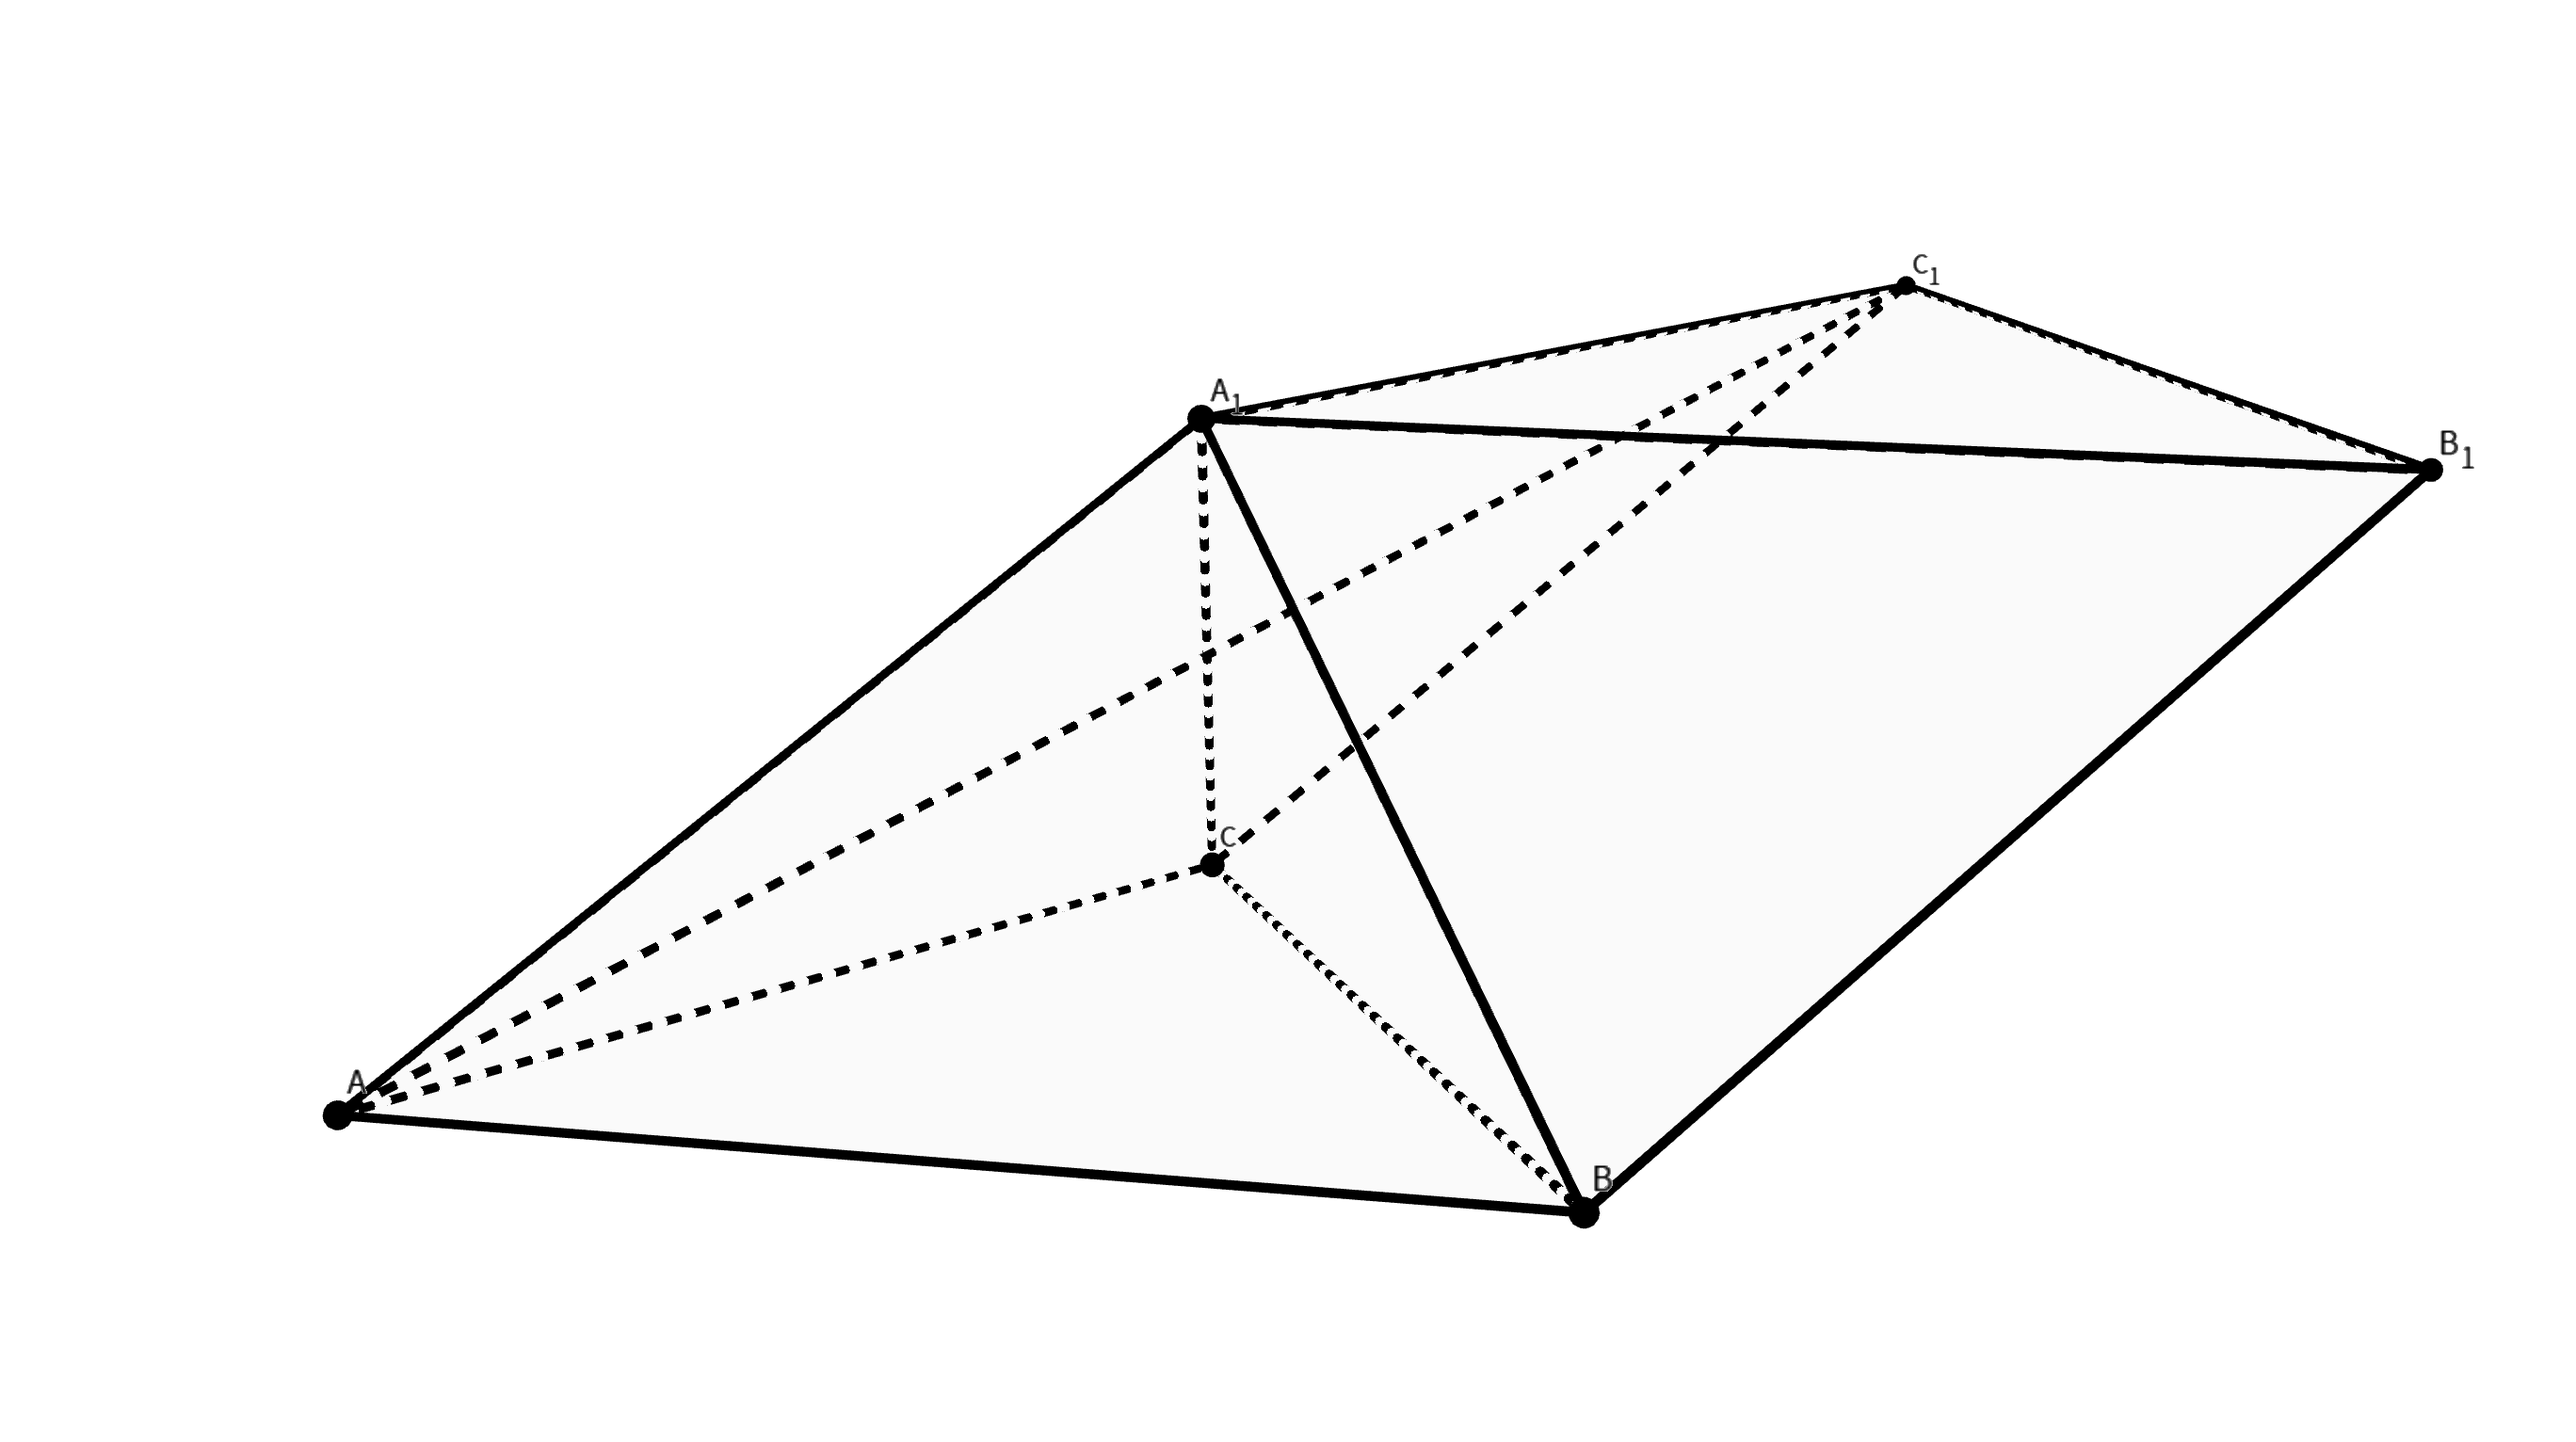
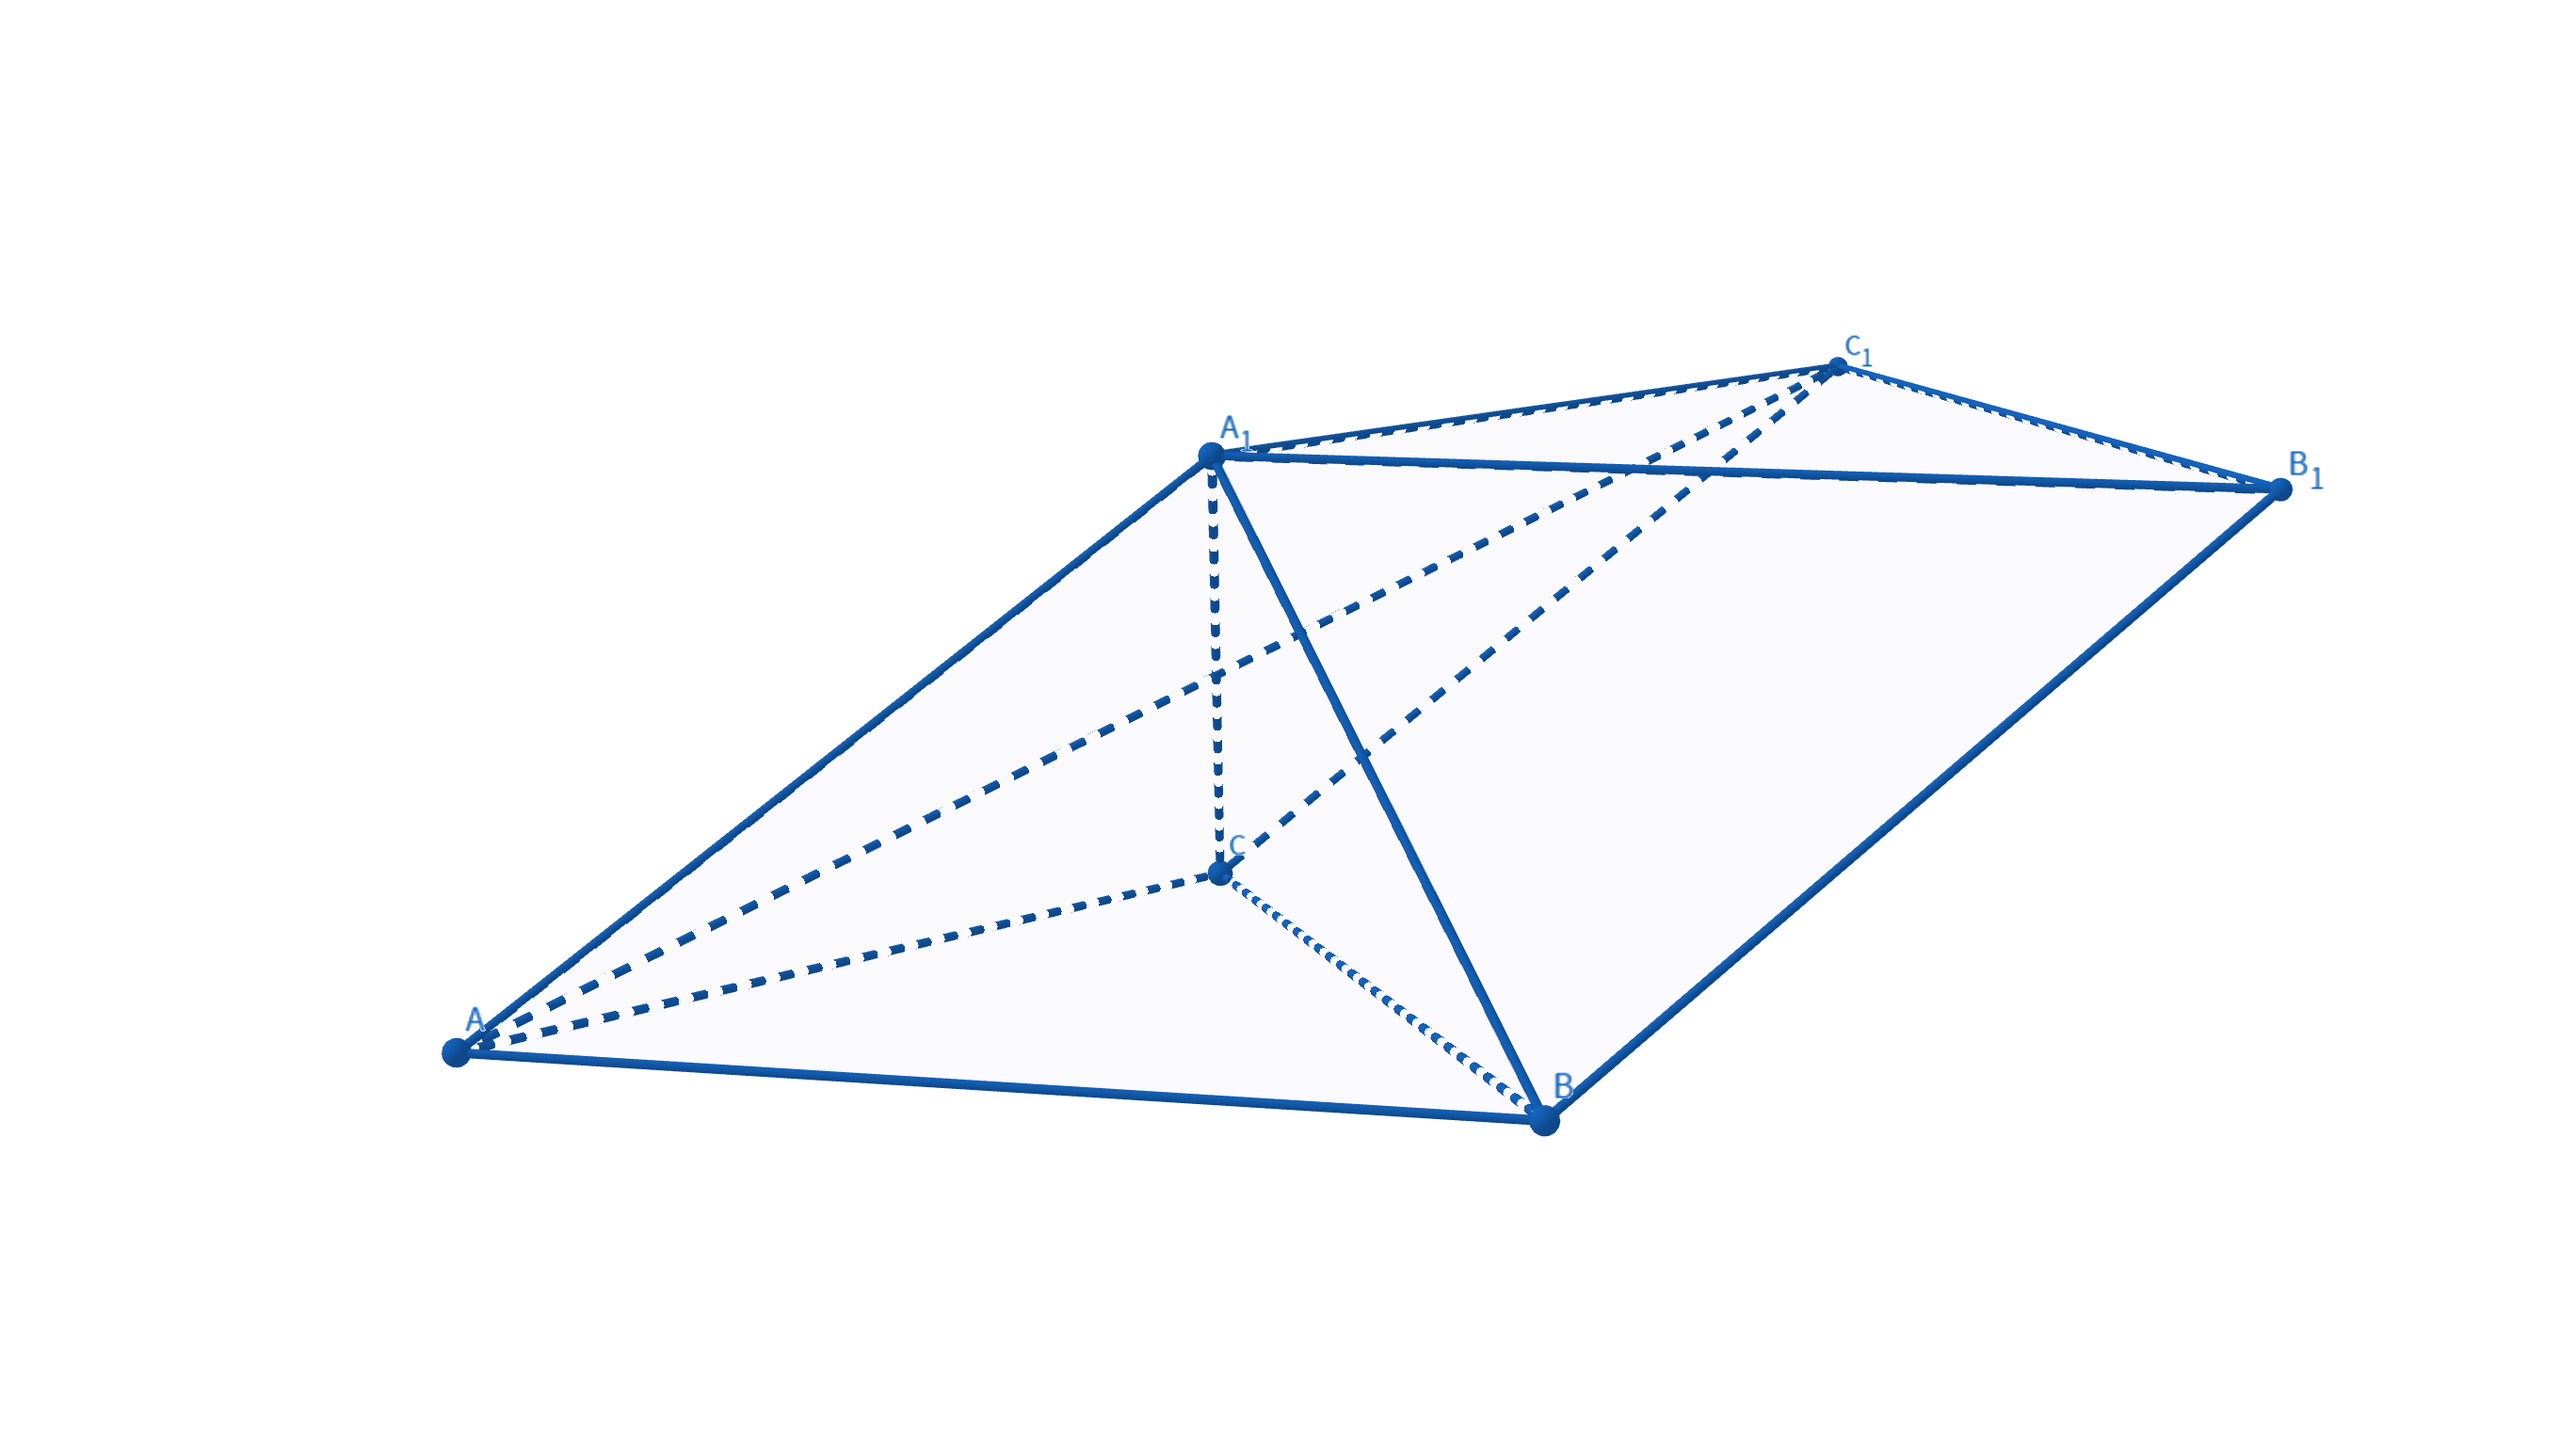
修改图片的配色外加新增6的图片

diff --git a/数学/初等数学/立体几何/立体几何.md b/数学/初等数学/立体几何/立体几何.md
@@ -30,6 +30,8 @@
 **例6**：四棱台 $ABCD-A_1B_1C_1D_1$ 中，$AB // CD$，$DD_1 \perp$ 面 $ABCD$，$BC=CD=\frac{1}{2}AB$。 
 求证：$AD \perp BB_1$
 
+![例6图](./图/6.png)
+
 **例7**：三棱柱 $ABC-A_1B_1C_1$ 中，侧面 $BCC_1B_1$ 是矩形，$AC=AA_1$，$AC_1 \perp A_1B$。  
 求证：平面 $ACC_1A_1$ $\perp$ 平面 $ABC$
 
@@ -38,8 +40,12 @@
 **例8**：四棱锥 $P-ABCD$中，底面 $ABCD$ 是边长为 $4$ 的菱形，$\angle DAB=60^\circ$，$PA=PC$，$PB=PD=2\sqrt{10}$，$M$ 是线段 $PC$ 上的点，且 $\overrightarrow{PC}=4\overrightarrow{MC}$。
 求证：平面$PAC$ $\perp$ 平面$BDM$
 
+![例8图](./图/8.png)
+
 **例9**：三棱台 $ABC-A_1B_1C_1$ 中，$AC \perp AB$，平面 $ABB_1A_1$ $\perp$ 平面$ABC$，$AA_1=A_1B_1=BB_1=\frac{1}{2}AB$。
 求证：平面 $ABB_1A_1$ $\perp$ 平面 $ACC_1A_1$
+
+![例9图](./图/9.png)
 
 **例10**：直三棱柱 $ABC-A_1B_1C_1$ 中，$AB \perp AC$，$AB=AC=AA_1$，$M$、$N$、$P$ 分别是棱 $A_1C_1$、$BB_1$、$BC$ 中点。 
 求证：平面 $APN$ $\perp$ 平面 $A_1MP$
@@ -51,40 +57,62 @@
 **例11**：三棱台 $ABC-A_1B_1C_1$ 中，设面 $AB_1C_1$ $\cap$ 面 $ABC=l$，点 $E$、$F$ 分别在直线 $l$ 和直线 $BB_1$ 上，且 $EF \perp l$，$EF \perp BB_1$（其中 $E$ 不与 $A_1$ 重合）。
 求证：平面 $AEF$ $\perp$ 平面 $BCC_1B_1$
 
+![例11图](./图/11.png)
+
 **例12**：四棱台 $ABCD-A_1B_1C_1D_1$的上、下底面分别是边长为 $2$ 和 $4$ 的正方形，平面 $AA_1D_1D$ $\perp$ 平面 $ABCD$，$A_1A = D_1D = \sqrt{17}$，点 $P$ 是棱 $DD_1$ 的中点，点 $Q$ 在棱 $BC$ 上且 $BQ = 3QC$。
 求证：直线$PQ //$ 平面 $ABB_1A_1$
+
+![例12图](./图/12.png)
 
 **例13**：三棱柱 $ABC-A_1B_1C_1$ 中，侧面 $BCC_1B_1$ 为正方形，面 $BCC_1B_1$ $\perp$ 面 $ABB_1A_1$，$AB = BC = 2$，$M$、$N$ 分别是 $A_1B_1$、$AC$ 的中点。
 求证：$MN //$ 面 $BCC_1B_1$
 
+![例13图](./图/13.png)
+
 **例14**：菱形 $ABCD$ 中，$\angle BAD = 60^\circ$，以直线 $AB$ 为轴将菱形 $ABCD$ 翻折到菱形 $ABC_1D_1$的位置，使得面 $ABC_1D_1$ $\perp$ 面 $ABCD$，点 $E$ 是 $BC_1$ 中点，连接 $CE$，$DD_1$。
 求证：直线$CE //$ 面 $ADD_1$
 
+![例14图](./图/14.png)
+
 **例15**：五面体 $ABCDEF$ 中，$CD \perp$ 面 $ADE$，$EF \perp$ 面 $ADE$。
 求证：$AB // CD$
+
+![例15图](./图/15.png)
 
 ---
 
 **例16**：四棱锥 $P-ABCD$ 中，底面 $ABCD$ 是边长为 $2$ 的正方形，$PA = PB = \sqrt{5}$，点 $N$ 是 $BC$ 中点，点 $M$ 在线段 $PD$ 上，且 $PB //$ 面 $MAC$。
 求证：$CM //$ 面 $PAN$
 
+![例16图](./图/16.png)
+
 **例17**：正三棱柱 $ABC-A_1B_1C_1$ 中，$AA_1 = AB$，$M$、$N$、$P$ 分别是 $BC$、$AB_1$、$B_1C_1$ 中点。
 求证：直线$MN //$ 面 $A_1CP$
+
+![例16图](./图/16.png)
 
 **例18**：矩形 $ABCD$ 是圆柱 $OO'$ 的轴截面，$AB = 4$，$AD = 2\sqrt{2}$，$E$、$F$ 分别是上、下底面圆周上的点，且 $CF // AE$。
 求证：$DF // BE$
 
+![例18图](./图/18.png)
+
 **例19**：在四棱台 $ABCD-A_1B_1C_1D_1$ 中，底面 $ABCD$ 是边长为 $2$ 的正方形，$B_1C_1 = 1$。
 求证：直线$AA_1 //$ 面 $BDC_1$
+
+![例19图](./图/19.png)
 
 **例20**：由四棱柱 $ABCD-A_1B_1C_1D_1$ 截去三棱锥 $D-A_1DC_1$ 后得到如图几何体，  
 四边形 $ABCD$ 是菱形，$AC = 2BD$，$AC \cap BD = O$，$B_1O \perp$ 面 $ABCD$，  
 求证：直线$B_1O //$ 面 $A_1DC_1$
 
+![例20图](./图/20.png)
+
 ---
 
 **例21**：在四棱锥 $P-ABCD$ 中，底面 $ABCD$ 是平行四边形，$PA=PB$，$DA=DB=\sqrt{2}$，$AB=2PD=2$，点 $E,F$ 分别为 $AB,PB$ 中点。
 求证：$PE \perp CF$
+
+![例21图](./图/21.png)
 
 **例22**：在正四棱锥 $P-ABCD$ 中，$PA=AB$，$E$ 是 $PB$ 中点，$F,G$ 分别是 $PA,PC$ 上一点，面 $EFG$ 与面 $ABCD$ 的交线为 $l$（$l$ 未在图中画出），若面 $EFG \perp$ 面 $PBD$。
 求证：直线$l \perp$ 面 $PBD$
